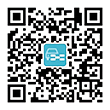
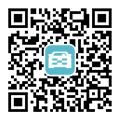
官方更新

diff --git a/components/layout/layout.js b/components/layout/layout.js
@@ -62,18 +62,20 @@ export default function Layout({ children, pageName }) {
             <Link href="/service">
               <label className={classNames(footerItem, `${styles['contact-item']}`)}>服务中心</label>
             </Link>
-            <Link href="/">
-              <label className={classNames(footerItem, `${styles['contact-item']}`)}>风驰出行</label>
-            </Link>
-            {/* <Link href="/about">
-              <label className={classNames(footerItem, `${styles['contact-item']}`)}>关于我们</label>
-            </Link>
-            <Link href="/service">
-              <label className={classNames(footerItem, `${styles['contact-item']}`)}>服务中心</label>
-            </Link> */}
           </div>
           <div className={styles['footer-contact-right']}>
-            <img className={classNames(`${styles['wechat-code']}`, footerItem)} src="/images/wechat-code.png"></img>
+            <div className={styles['qrcode-container']}>
+              <img className={classNames(`${styles['qrcode']}`, footerItem)} src="/images/passenger-code.png"></img>
+              <label className={styles['qrcode-text']}>下载乘客端app</label>
+            </div>
+            <div className={styles['qrcode-container']}>
+              <img className={classNames(`${styles['qrcode']}`, footerItem)} src="/images/driver-code.png"></img>
+              <label className={styles['qrcode-text']}>下载司机端app</label>
+            </div>
+            <div className={styles['qrcode-container']}>
+              <img className={classNames(`${styles['qrcode']}`, footerItem)} src="/images/wechat-code.png"></img>
+              <label className={styles['qrcode-text']}>关注风驰公众号</label>
+            </div>
             <div className={styles['contact-container']}>
               <label className={styles['contact-item']}>电话：0793-8213368</label>
               <label className={styles['contact-item']}>网址：www.fengchi-tech.com</label>

diff --git a/components/layout/layout.module.scss b/components/layout/layout.module.scss
@@ -71,30 +71,59 @@
       height: 260px;
       display: flex;
       .footer-contact-left {
-        width: 50%;
+        width: 45%;
         display: flex;
         flex-direction: row-reverse;
         align-items: center;
+
+        &::after {
+          content: ' ';
+          opacity: 0.7;
+          position: absolute;
+          right: 59%;
+          display: inline-block;
+          width: 1px;
+          height: 140px;
+          background-color: white;
+        }
+
         .contact-item {
           width: 13.54vw;
           color: white;
           opacity: 0.8;
         }
       }
+
       .footer-contact-right {
-        width: 50%;
+        width: 55%;
         display: flex;
         align-items: center;
         padding-left: 20px;
-        .wechat-code {
-          display: block;
-          width: 110px;
-          height: 110px;
+
+        .qrcode-container {
+          display: flex;
+          flex-direction: column;
+          margin-left: 20px;
+          .qrcode {
+            display: block;
+            width: 110px;
+            height: 110px;
+          }
+
+          .qrcode-text {
+            color: white;
+            text-align: center;
+            width: 100%;
+            padding-top: 10px;
+            font-size: 13px;
+            // line-height: 26px;
+          }
         }
+
         .contact-container {
           display: flex;
           flex-direction: column;
-          padding-left: 30px;
+          padding-left: 50px;
           .contact-item {
             font-size: 14px;
             line-height: 30px;
